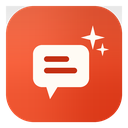
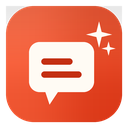
放大 spark-bubble 方案的气泡主体，提升小尺寸清晰度

Changed region(s): [[0.2188, 0.1562, 0.9062, 0.8125], [0.3125, 0.4375, 0.6562, 0.625]]

diff --git a/design-previews/2026-09-16-icons/generate_icons.py b/design-previews/2026-09-16-icons/generate_icons.py
@@ -229,15 +229,15 @@ def icon_spark_bubble():
     img = base_tile()
     ov = layer()
     d = ImageDraw.Draw(ov)
-    d.rounded_rectangle([264, 360, 712, 696], radius=72, fill=CREAM)
-    d.polygon([(368, 688), (464, 688), (400, 792)], fill=CREAM)
+    d.rounded_rectangle([232, 336, 752, 736], radius=84, fill=CREAM)
+    d.polygon([(360, 728), (468, 728), (396, 836)], fill=CREAM)
     img = Image.alpha_composite(img, ov)
     ov = layer()
     d = ImageDraw.Draw(ov)
-    bar(d, 352, 472, 552, 44, LINE)
-    bar(d, 352, 564, 616, 44, LINE)
-    sparkle(d, 742, 300, 96, CREAM)
-    sparkle(d, 820, 396, 52, CREAM)
+    bar(d, 330, 492, 580, 50, LINE)
+    bar(d, 330, 596, 652, 50, LINE)
+    sparkle(d, 792, 276, 104, CREAM)
+    sparkle(d, 868, 388, 56, CREAM)
     return Image.alpha_composite(img, ov)
 
 
